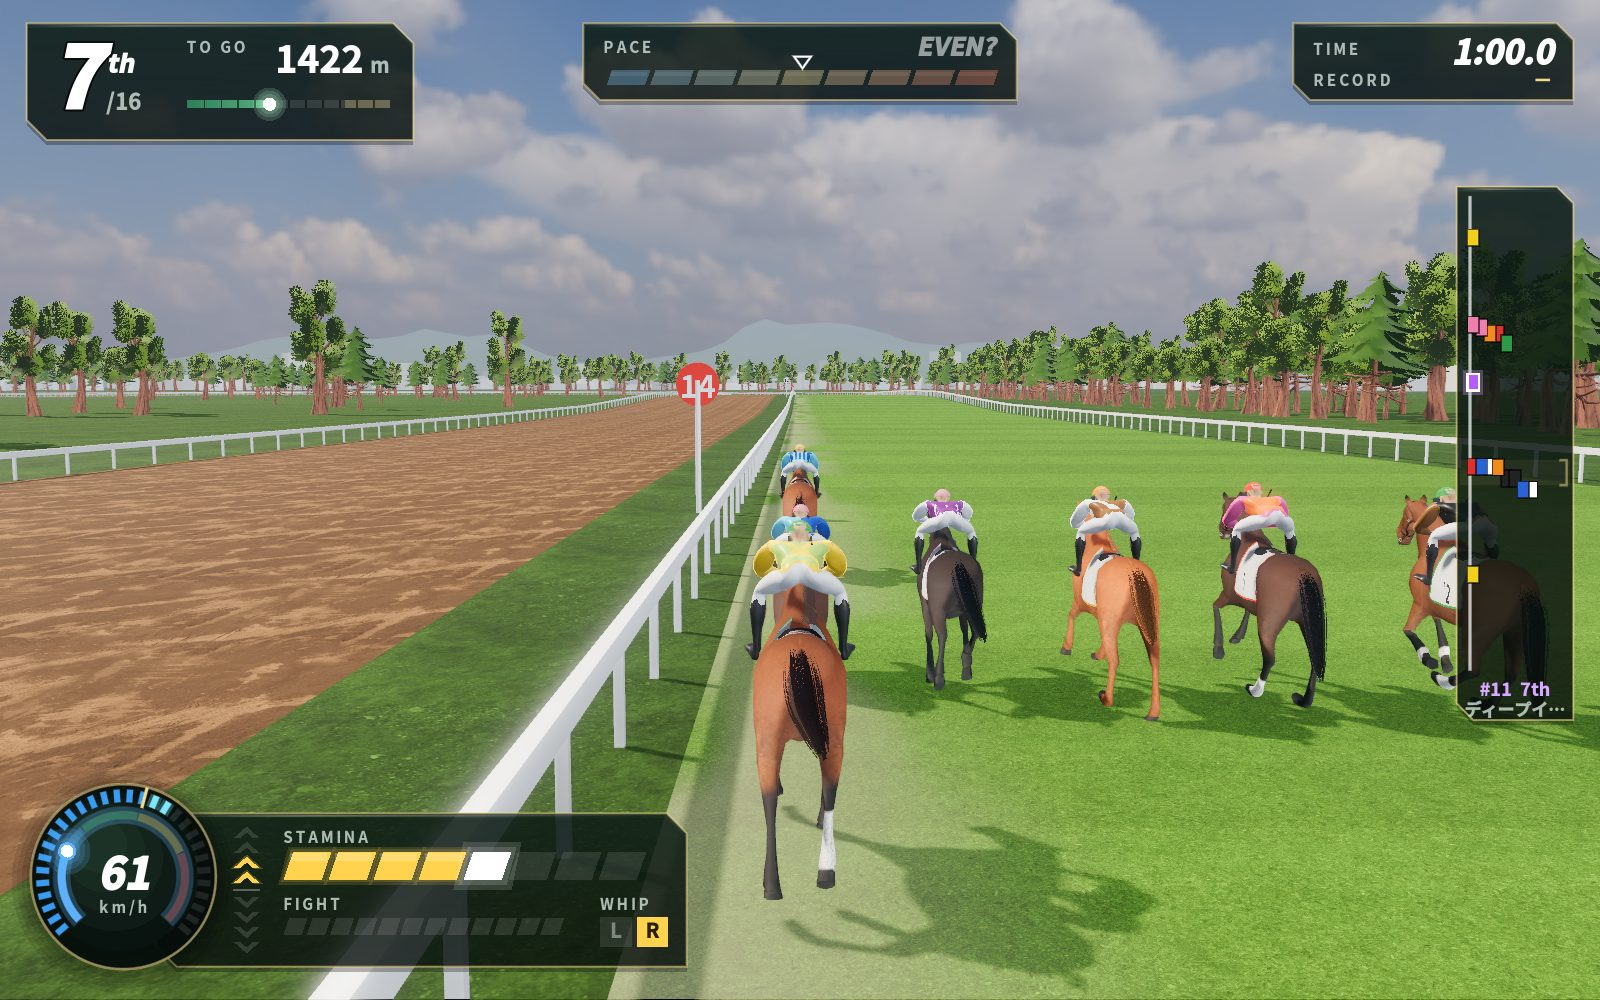
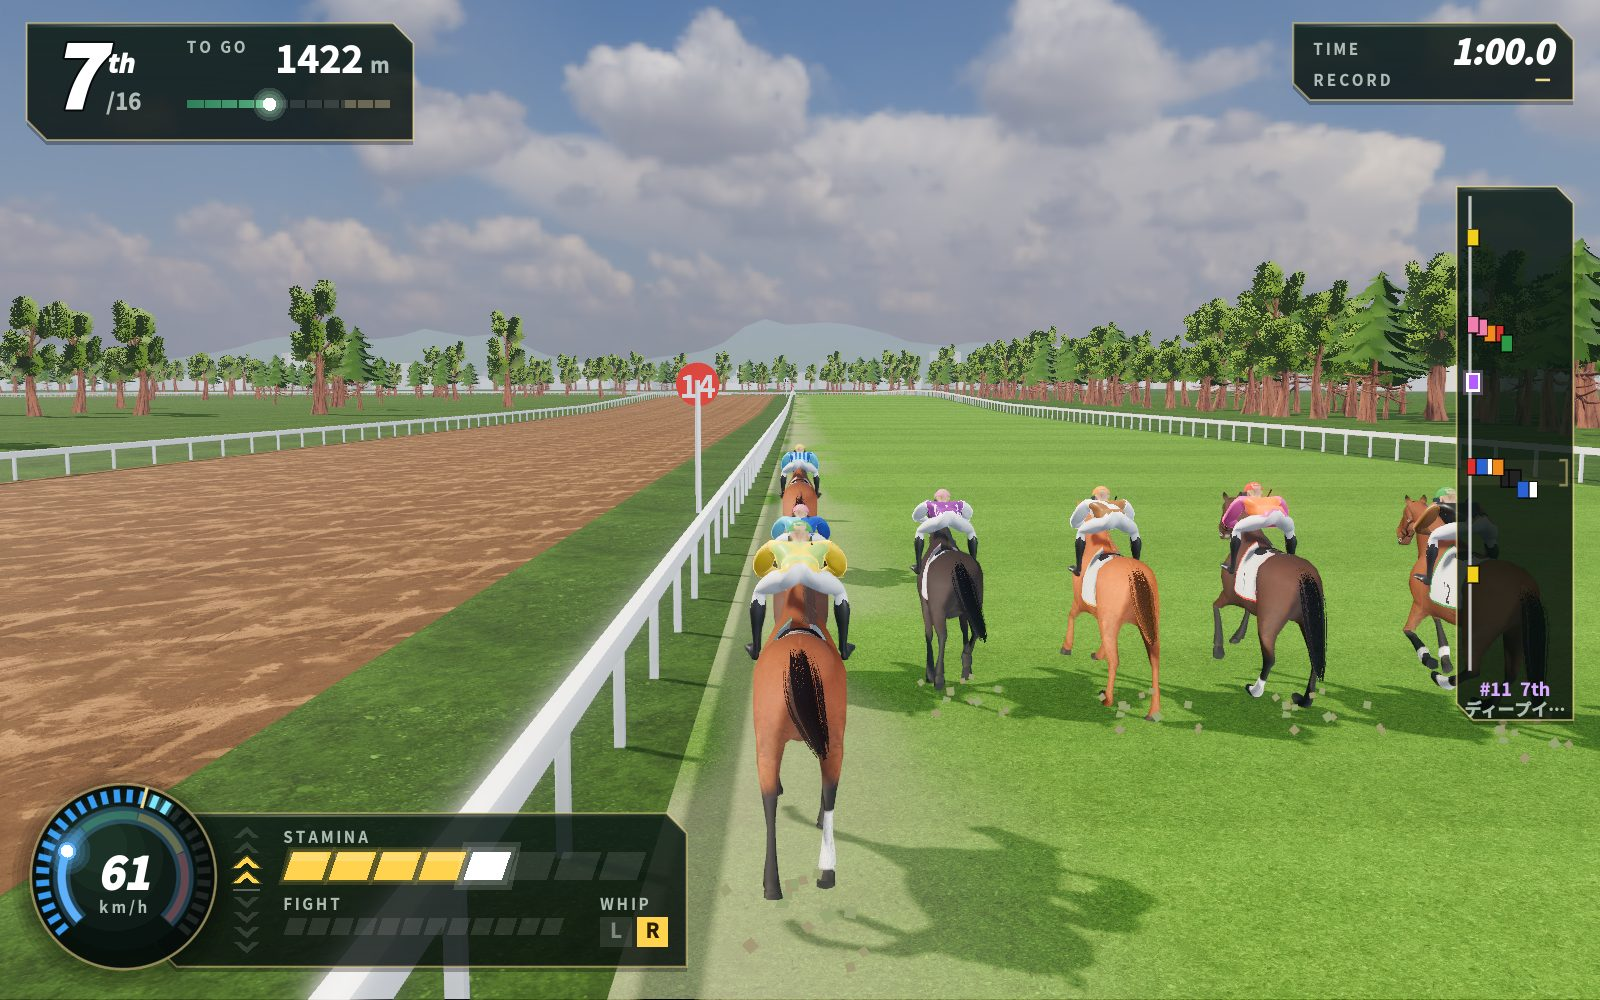
ペースはチェックポイントを過ぎたときだけ 4.5 秒出す（見込みは出さない）・出走表の展開予想を消す
Claude-Session: https://claude.ai/code/session_01J63XyBRfmLY6yhTh69r6u6

diff --git a/docs/shots/godot/v2/README.md b/docs/shots/godot/v2/README.md
@@ -8,8 +8,8 @@
 |---|---|---|
 | ゲート | ![](01_gate.jpg) | 3・2・1 が真ん中でふくらむ。操作の案内（英語）は計器の塊の右 |
 | スタート | ![](02_start.jpg) | 開く 150ms 前の ↑ を覚えて、開いた瞬間に GOOD START（kick の揺れ：縦 5cm・画角 +3°） |
-| 道中 | ![](03_mid.jpg) | 計器は4か所（左上＝順位と TO GO の帯・上＝PACE・右上＝TIME/RECORD・右＝馬群のレーダー）と左下の1つの塊（丸い計器・手綱の段・STAMINA・FIGHT・WHIP）。判定の前のペースは白抜きの印と「EVEN?」 |
-| HIGH CAM | ![](04_high.jpg) | 上へ 0.42rad・1.7 倍引く。自分の特殊能力の札（ロングスパート）が右上へ退いて残る |
+| 道中 | ![](03_mid.jpg) | 計器は4か所（左上＝順位と TO GO の帯・上＝PACE・右上＝TIME/RECORD・右＝馬群のレーダー）と左下の1つの塊（丸い計器・手綱の段・STAMINA・FIGHT・WHIP）。ペースの板はふだん出さない（13 を見る） |
+| HIGH CAM | ![](04_high.jpg) | 上へ 0.42rad・1.7 倍引く。自分の特殊能力の札が右上へ退いて残る（名前は模擬の側の名前。「長く良い脚」などの新しい名前は gdcpp が合わせる） |
 | ムチ | ![](05_whip.jpg) | 打った側の端に短い光の筋、計器の WHIP に点。画面と計器は揺らさない（カメラだけ横 3cm の kick）。追い出して丸い計器の縁が金に光る |
 | 直線 | ![](06_straight.jpg) | スタミナ残り2つで赤く点滅、レーダーの括弧（得意な位置） |
 | 流す | ![](07_coast.jpg) | ゴール板のあと 2.4 秒は着順を伏せ、馬は映像の側で駈歩の 8.5m/s まで落として止めずに走り続ける。カメラは斜め横へ回る。下に「[A] SKIP ▶」だけ |
@@ -35,3 +35,5 @@
 |---|---|---|
 | 蹴り上げ | ![](11_kickup.jpg) | 後脚の蹄のうしろから芝の塊（ダートなら土の粒と薄い砂ぼこり）を後ろ上へ。カメラから 45m 以内・9m/s を越える馬だけ（`godot/view/kickup.gd`） |
 | 帽の形 | ![](12_cap.jpg) | 帽は枠の色のまま、つばを暗く、6枚の布の境・てっぺんのボタン・下の縁に陰（`godot/view/shaders/jockey.gdshader`） |
+| ペース | ![](13_pace.jpg) | 持ち主の指摘「常にわかるとつまらない」：先頭がチェックポイント（2400m なら 1200m）を過ぎたときだけ 4.5 秒、通過の距離と時計・SLOW/EVEN/HIGH・目盛りを出して消す。見込み（EVEN? など）は出さない |
+| 出走表 | ![](14_card.jpg) | 持ち主の指摘「プレイヤーに判断させたい」：展開予想（逃げ・先行の数とペース）を消し、右はコース図だけ |
